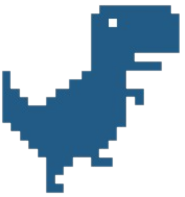
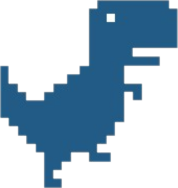
fixed a lot of images to make them look better and added dark dino blinking

Changed region(s): [[0.0, 0.0, 1.0, 1.0], [0.2247, 0.4787, 0.309, 0.5319]]

diff --git a/sketch.js b/sketch.js
@@ -17,6 +17,7 @@ let darkDinoRight;
 let dinoJump;
 let dinoBlickingLight;
 let darkDinoJump;
+let darkBlinkingDino;
 let dinoDead;
 let darkDinoDead;
 let dinoTank;
@@ -90,6 +91,7 @@ function preload(){
   darkDinoRight = loadImage("assets/dark running dino right.png");
   dinoJump = loadImage("assets/running dino jump.png");
   dinoBlickingLight = loadImage("assets/dinoLightBlicking.png");
+  darkBlinkingDino = loadImage("assets/darkBlinkingDino.png");
   darkDinoJump = loadImage("assets/darkDinoJump.png");
   dinoDead = loadImage("assets/dino dead.png");
   darkDinoDead = loadImage("assets/darkDeadDino.png");
@@ -149,12 +151,18 @@ class Dinosour{
           image(dinoJump, this.x, this.y, this.wD, this.wD);
         }
         else if(stateBlinking === "closed"){
-          image(dinoBlickingLight, this.x, this.y, this.wD, this.wD);
+          image(dinoBlickingLight, this.x , this.y, this.wD, this.wD);
         }
         
       }
       else if(stateDark === "dark"){
-        image(darkDinoJump, this.x, this.y, this.wD, this.wD);
+        
+        if(stateBlinking === "open"){
+          image(darkDinoJump, this.x, this.y, this.wD, this.wD);
+        }
+        else if(stateBlinking === "closed"){
+          image(darkBlinkingDino, this.x , this.y, this.wD, this.wD);
+        }
       }
     }
 
@@ -214,11 +222,11 @@ class Dinosour{
   }
   
   blinking(){
-    if(stateBlinking === "open"  && millis()> lastTimeSwitched + 5500){
+    if(stateBlinking === "open"  && millis()> lastTimeSwitched + 5000){
       stateBlinking = "closed";
       lastTimeSwitched = millis();
     }
-    else if(stateBlinking === "closed"  && millis()> lastTimeSwitched + 200){
+    else if(stateBlinking === "closed"  && millis()> lastTimeSwitched + 300){
       stateBlinking = "open";
       lastTimeSwitched = millis();
     }
@@ -448,7 +456,7 @@ function draw(){
   else if(state1 === "howTo"){
     displayHowTo();
   }
-  easterEgg();
+  // easterEgg();
 }
 let playing = true;
 
@@ -468,12 +476,12 @@ function displayCactai(){
       
     }
   }
-  let minDistance = width/4;
+  let minDistance = width/3;
   if(Cactai.length <= 0 || width - Cactai[Cactai.length - 1].x >= nextSpawnDistance){
-        cactais = new Cactus(this.x, this.y, this.imageOfCactai);
-        Cactai.push(cactais);
-        nextSpawnDistance = random(minDistance, width);
-      }
+    cactais = new Cactus(this.x, this.y, this.imageOfCactai);
+    Cactai.push(cactais);
+    nextSpawnDistance = random(minDistance, width);
+  }
   
 }
 
@@ -674,22 +682,23 @@ function displayHowTo(){
     image(darkModeGrassBackground, 0, height - height/2, width, height - height/2);
     image(darkCloadsBackground, 0, 0, width, height/2);
   }
-    line(width/2 - 200, 90, width/2 + 150, 90);
-    line(width/2 - 200, 565, width/2 + 150, 565);
-    text("press space to jump", width/2 - 300, 170);
-    text("the score is how long you have been playing", width/2 - 650, 340);
-    text("try not to die!!", width/2 - 250, 510);
+  line(width/2 - 200, 90, width/2 + 150, 90);
+  line(width/2 - 200, 565, width/2 + 150, 565);
+  text("press space to jump", width/2 - 300, 170);
+  text("the score is how long you have been playing", width/2 - 650, 340);
+  text("try not to die!!", width/2 - 250, 510);
   existHowToPlay.draw();
 }
 
 function moveBackground(){
   if(stateDark === "light"){
     // background("white");
+    image(grassBackground, 0, height - height/3.8, width, height - height/1.3);
     image(grassBackground, x1Grass, height - height/3.8, width, height - height/1.3);
     image(grassBackground, x2Grass, height - height/3.8, width, height - height/1.3);
   }
   else if(stateDark === "dark"){
-    // background("black");
+    
     image(darkModeGrassBackground, x1Grass, height - height/2, width, height - height/2);
     image(darkModeGrassBackground, x2Grass, height - height/2, width, height - height/2);
   }
@@ -714,6 +723,7 @@ function moveBackgroundCloads(){
     image(cloadsBackground, x2Cloads, 0, width, height/2);
   }
   else if(stateDark === "dark"){
+    background("black");
     image(darkCloadsBackground, x1Cloads, 0, width, height/2);
     image(darkCloadsBackground, x2Cloads, 0, width, height/2);
   }
